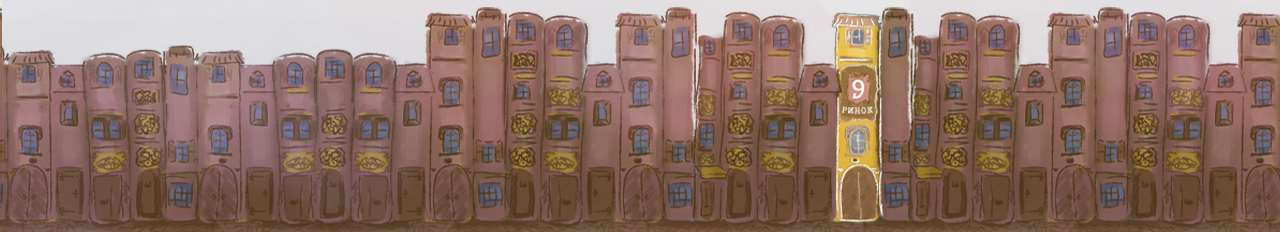
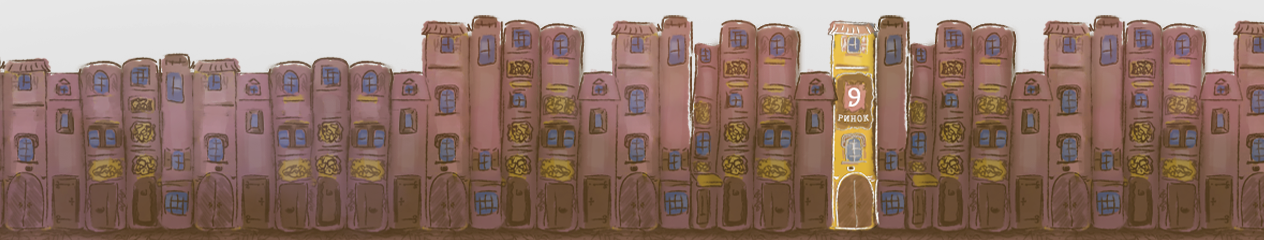
add new bookcase picture

diff --git a/src/sass/modules/_main-content.scss b/src/sass/modules/_main-content.scss
@@ -146,11 +146,11 @@
 .new-books-slider {
     display: none;
     position: relative;
-    width: 300px;
-    min-width: 300px;
-    height: 800px;
+    min-width: 22vw;
+    height: 45vw;
     background-image: url("../images/bookcase.png");
-    background-size: contain;
+    background-size: 40vw 60vw;
+    background-position: 40% -5vw;
     background-repeat: no-repeat;
 
     @media #{$media880pixels} {
@@ -159,14 +159,15 @@
 }
 
 .new-books-slider__picteres-slide-section {
-  display: flex;
-  flex-direction: column;
-  overflow: hidden;
+    display: flex;
+    flex-direction: column;
+    overflow: hidden;
     position: absolute;
-    width: 175px;
-    height: 415px;
-    top: 258px;
-    left: 45px;
+    width: 10.5vw;
+    height: 25vw;
+    top: 10.6%;
+    left: 23%;
+    border-radius: 5%;
 }
 
 .new-books-slider__control-button_up {
